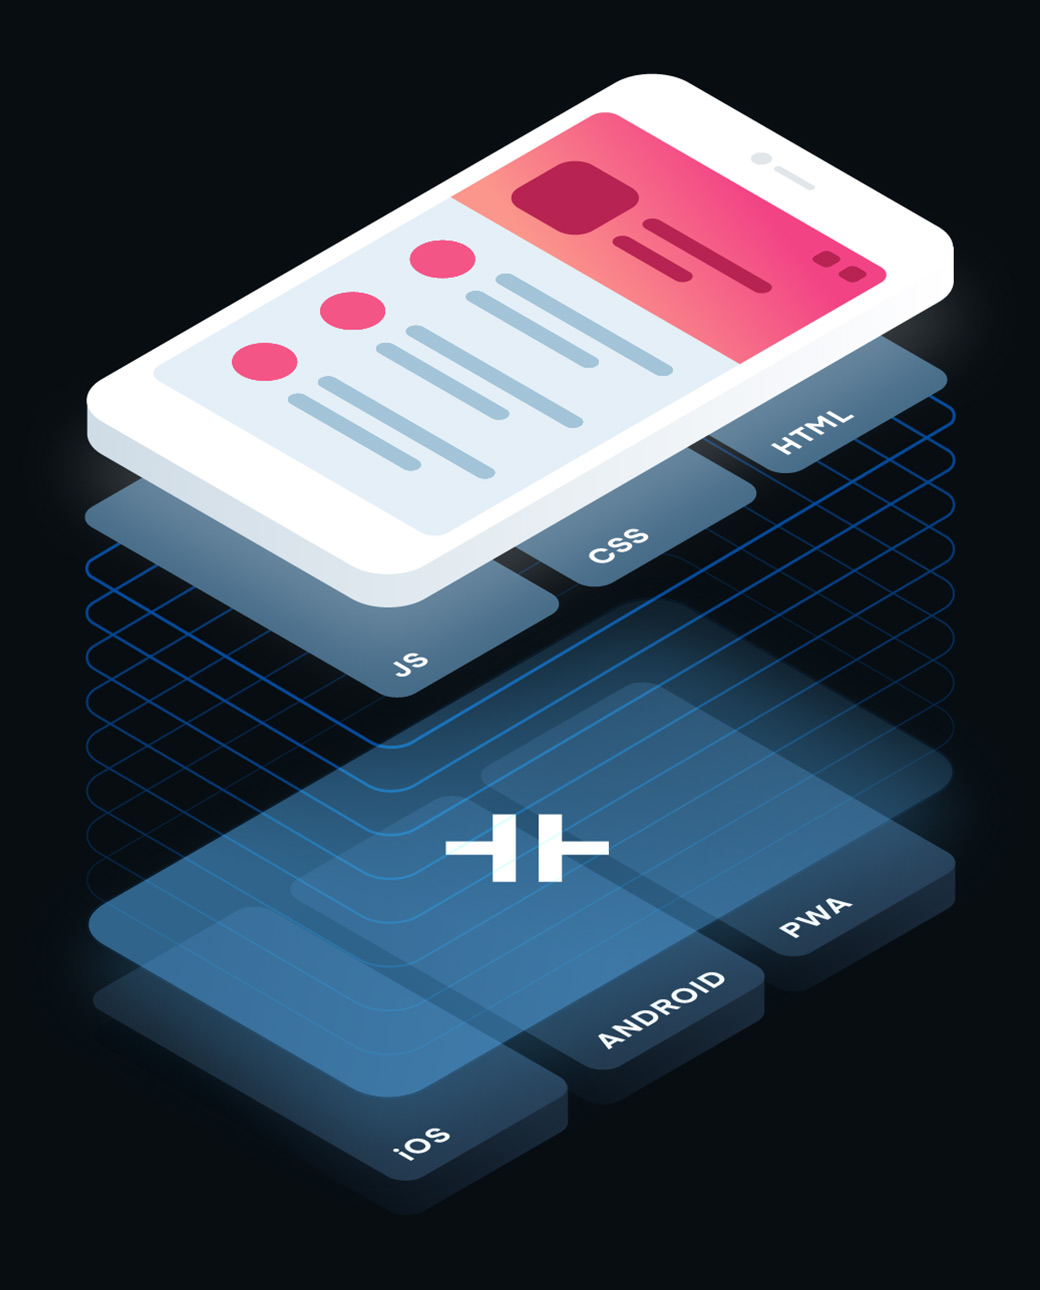
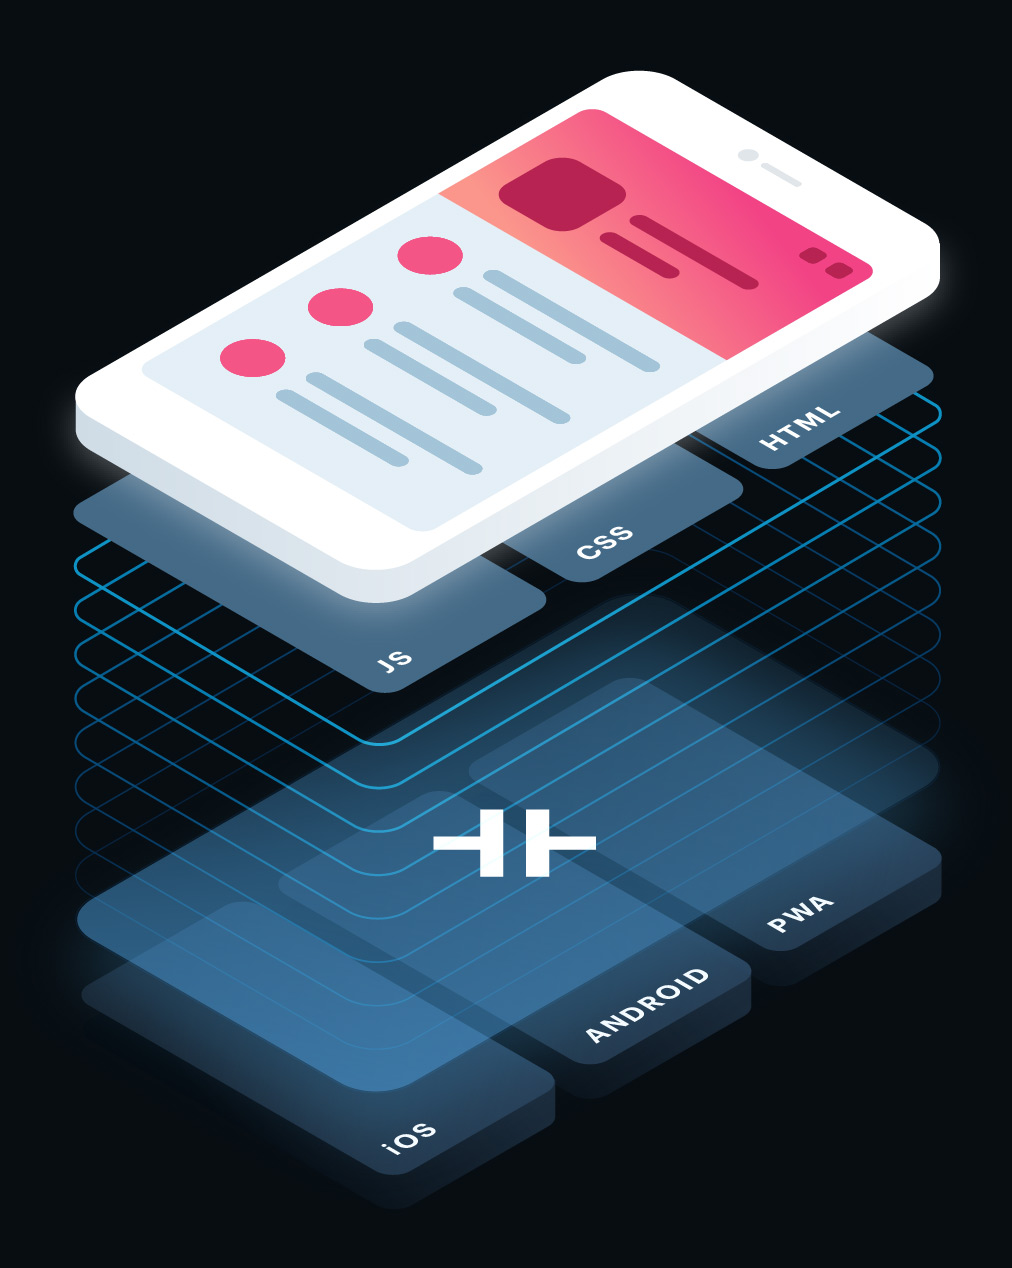
Update hero image on landing page

diff --git a/site/src/components/blog-page/blog-page.tsx b/site/src/components/blog-page/blog-page.tsx
@@ -13,54 +13,65 @@ export class BlogPage {
     return [
       <div id="blog" class="wrapper">
         <div class="post container">
-          <h1>Announcing Capacitor</h1>
-          <div>By <strong><a href="http://twitter.com/maxlynch">Max Lynch</a></strong> on <time>December 12th, 2017</time></div>
+          <h1>Announcing Capacitor 1.0.0 Beta</h1>
+          <div>By <strong><a href="http://twitter.com/maxlynch">Max Lynch</a></strong> on <time>May 8th, 2018</time></div>
           <p>
-            Today the <a href="http://ionicframework.com/">Ionic</a> team is excited excited to announce a new Private Preview open source project called Capacitor that makes
-            it easier to build and deploy web apps on iOS, Android, Electron, and the web as a Progressive Web App,
-            all while maximizing code reuse.
+            Today we are incredibly excited to announce the first beta release of Capacitor, a new project
+            by the team behind <a href="http://ionicframework.com/">Ionic Framework</a> to build a better future for
+            hybrid apps by helping them run on more platforms, access native functionality more easily, and
+            reduce the complexity of managing native projects.
           </p>
           <p>
-            Over the last few years, we've seen web technology proliferate on mobile like never before. Increasingly,
-            teams are building apps using web technologies, and Progressive Web Apps are poised to bring the web
-            to mobile in a huge way. As a
-            company focused 100% on bringing the web to mobile, we're excited that teams are far more willing
-            to build apps with web technology today than in years past.
+            Capacitor is a simple but powerful native mobile web app runtime, helping developers build standards-compliant
+            web apps that run natively on iOS, Android, Desktop, and the web as a Progressive Web App, all with one shared code base.
           </p>
           <p>
-            We think it could be even easier for web developers to use web standards to target all the platforms they care about, making
-            it easy to build apps that run great in a native app
-            environment on iOS, Android, and Electron, <i>and</i> on the web as a Progressive Web App.
+            At Ionic, we've worked with thousands of teams building mission critical apps with the web platform. That
+            experience has given us a fresh perspective on how to improve one of the most important pieces of
+            what makes an app an app: how it interfaces with the native platform it runs on.
+          </p>
+
+          <h2>How does Capacitor work?</h2>
+          <p>
+            At the core, Capacitor is a web-to-native "bridge" that lets JavaScript and web content access native functionality and UI (and vice versa). Capacitor comes
+            with tooling to help create projects for each platform you're targeting, along with a plugin API for extending and exposing native functionality to your web code. Finally,
+            Capacitor comes with a middleware layer that enables your code to run both on native platforms *and* on the web as a Progressive Web App, all with the same code.
           </p>
           <p>
-            Capacitor is our attempt at doing just that.
+            Capacitor solves a similar problem to Cordova, so Capacitor will replace Cordova in a typical hybrid app, while providing backwards compatibility with most
+            existing Cordova plugins. Capacitor and Ionic Framework work together, with Capacitor providing Native SDK access and basic native tooling, and Ionic Framework providing the
+            cross-platform UI you've come to know and love.
+          </p>
+
+          <h2>How does Capacitor compare to X?</h2>
+          <p>
+            Capacitor is most similar to Cordova, but has taken a few different approaches to hybrid app development. First, Capacitor
+            has much less tooling for native project management. Instead, Capacitor enables you to check your native projects into source
+            control and manage them as a source asset. This means fewer Capacitor-specific tools that can break in unexpected ways,
+            and an easier escape-hatch for adding native code or working with existing native development teams/libraries. For those used to
+            doing everything from the Cordova CLI, expect to change to spending more time in the platform-specific IDE for testing/running (such as Xcode, Android Studio, etc.)
           </p>
           <p>
-            Capacitor is a set of tools and a web-to-native bridge that makes it possible to build powerful mobile apps with seamless
-            native integration and Progressive Web App fallbacks. Capacitor features a simple Plugin API for building native functionality that is exposed through
-            JavaScript to a web layer, along with easily mixing Native UI controls with web content
-            to get the best of both worlds.
+            Compared to React Native, Native Script, Flutter, and the many other cross-platform options focused on Native UI, Capacitor is web-native, and enables
+            developers to build one app that runs just as well in the app stores as it does on Electron and on the web as a Progressive Web App. Perfect for teams
+            that continue to support multi-screen environments or want to use pure web standards to build their apps.
+          </p>
+
+          <h2>What's next?</h2>
+          <p>
+            With Capacitor entering beta, we are working hard towards 1.0, production-ready status. We will soon be integrating Capacitor into
+            the Ionic CLI, and encouraging Ionic developers to use it in place of Cordova.
+          </p>
+
+          <h2>What's next?</h2>
+          <p>
+            To get started, visit the <a href="https://capacitor.ionicframework.com/docs/getting-started/">Getting Started</a> portion of the <a href="https://capacitor.ionicframework.com/">Capacitor Docs</a>.
           </p>
           <p>
-            When targeting native iOS or Android, Capacitor lets you control your entire native project without modifying it, enabling you to
-            work in Xcode or Android Studio to easily add custom native code or Native UI if necessary. Exposing
-            that code or those views to the web layer is as easy as connecting them to Capacitor in your iOS or Android project.
+            If you need help as you try it out, join us on the <a href="http://forum.getcapacitor.com/">Capacitor Forum</a> or <a href="http://getcapacitor.herokuapp.com/">Slack Community</a>.
           </p>
           <p>
-            Capacitor also bundles a set of core Native features out of the box, including Camera, Geolocation,
-            Filesystem operations, and more. We want to provide 80% of what every app needs out of the box, while
-            making it easy for the community to fill in the rest of the pieces.
-          </p>
-          <p>
-            We are hopeful that Capacitor will enable teams with only web developers to build great apps, <i>and</i> teams with a mix of native developers and web developers will be able to work together to build truly cross-platform apps.
-          </p>
-          <p>
-            Capacitor is under active development and is currently in a Private Preview with a small set of users while
-            we continue to build and improve the project. We expect to have a public preview early 2018.
-          </p>
-          <p>
-            Thanks,<br />
-            The <a href="http://ionicframework.com/">Ionic</a> Team
+            From all of us at <a href="http://ionicframework.com/">Ionic</a>, thanks for trying Capacitor!
           </p>
         </div>
       </div>,

diff --git a/site/src/components/landing-page/landing-page.tsx b/site/src/components/landing-page/landing-page.tsx
@@ -26,7 +26,7 @@ export class LandingPage {
         <stencil-route-link url="/blog/" >
           <span class="pill">New</span>
           <span class="message">
-            Introducing Capacitor: Start building with our Beta release
+            Announcing Capacitor 1.0.0 Beta
           </span>
           <span class="cta">
             Read Post

diff --git a/site/src/components/site-header/site-header.scss b/site/src/components/site-header/site-header.scss
@@ -9,8 +9,8 @@ site-header {
   z-index: 99;
 
   .container {
-    padding-top: 20px;
-    padding-bottom: 20px;
+    padding-top: 28px;
+    padding-bottom: 28px;
     display: flex;
     justify-content: space-between;
   }

diff --git a/site/src/components/landing-page/landing-page.scss b/site/src/components/landing-page/landing-page.scss
@@ -154,7 +154,7 @@ landing-page {
 
       img {
         width: 100%;
-        max-width: 520px;
+        max-width: 506px;
         min-width: 420px;
         margin-right: -42px;
         margin-top: -20px;
